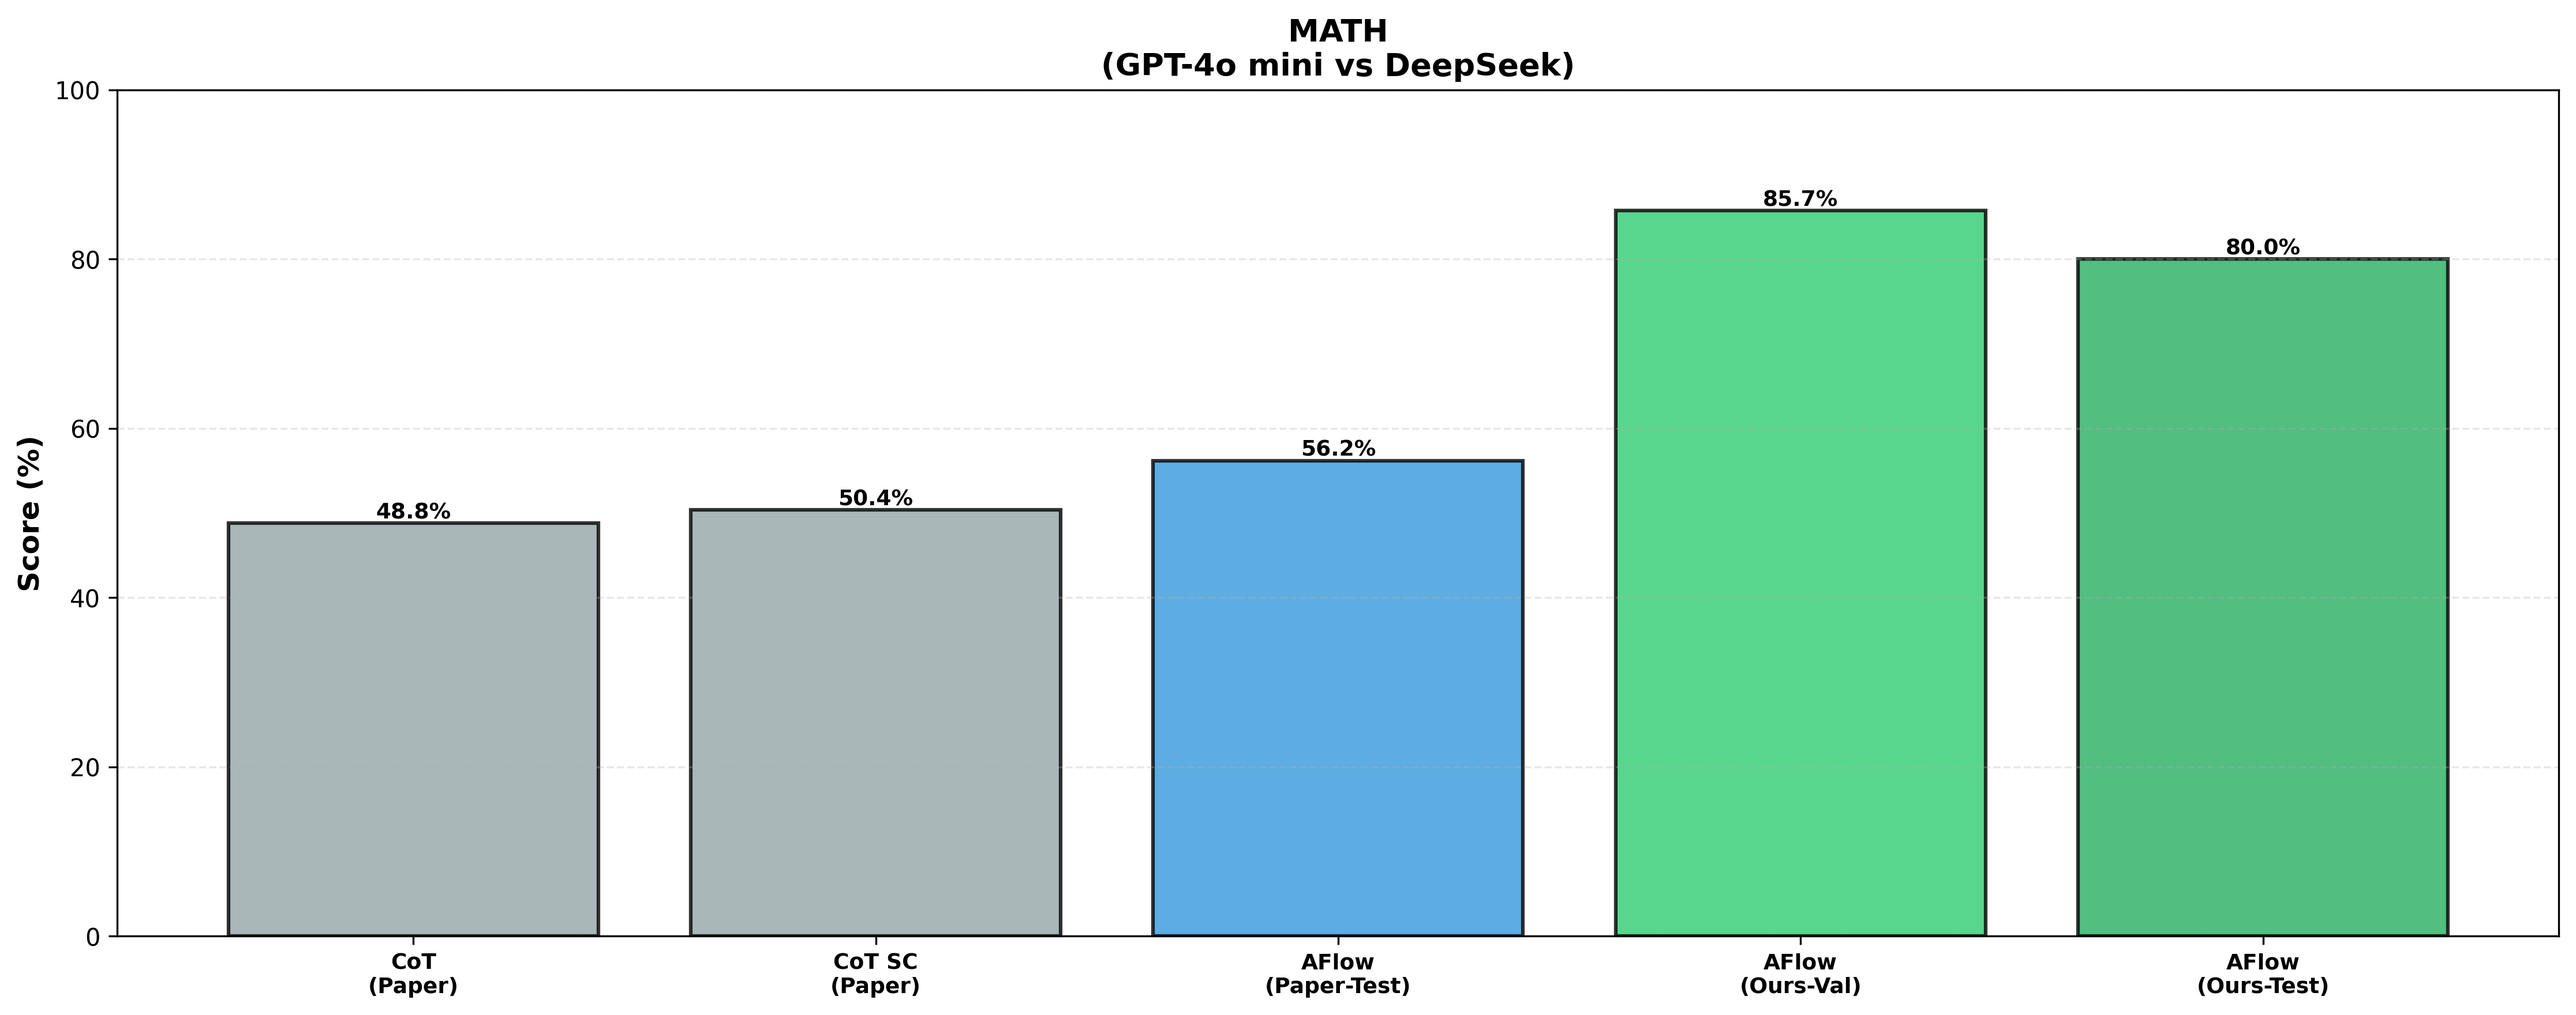
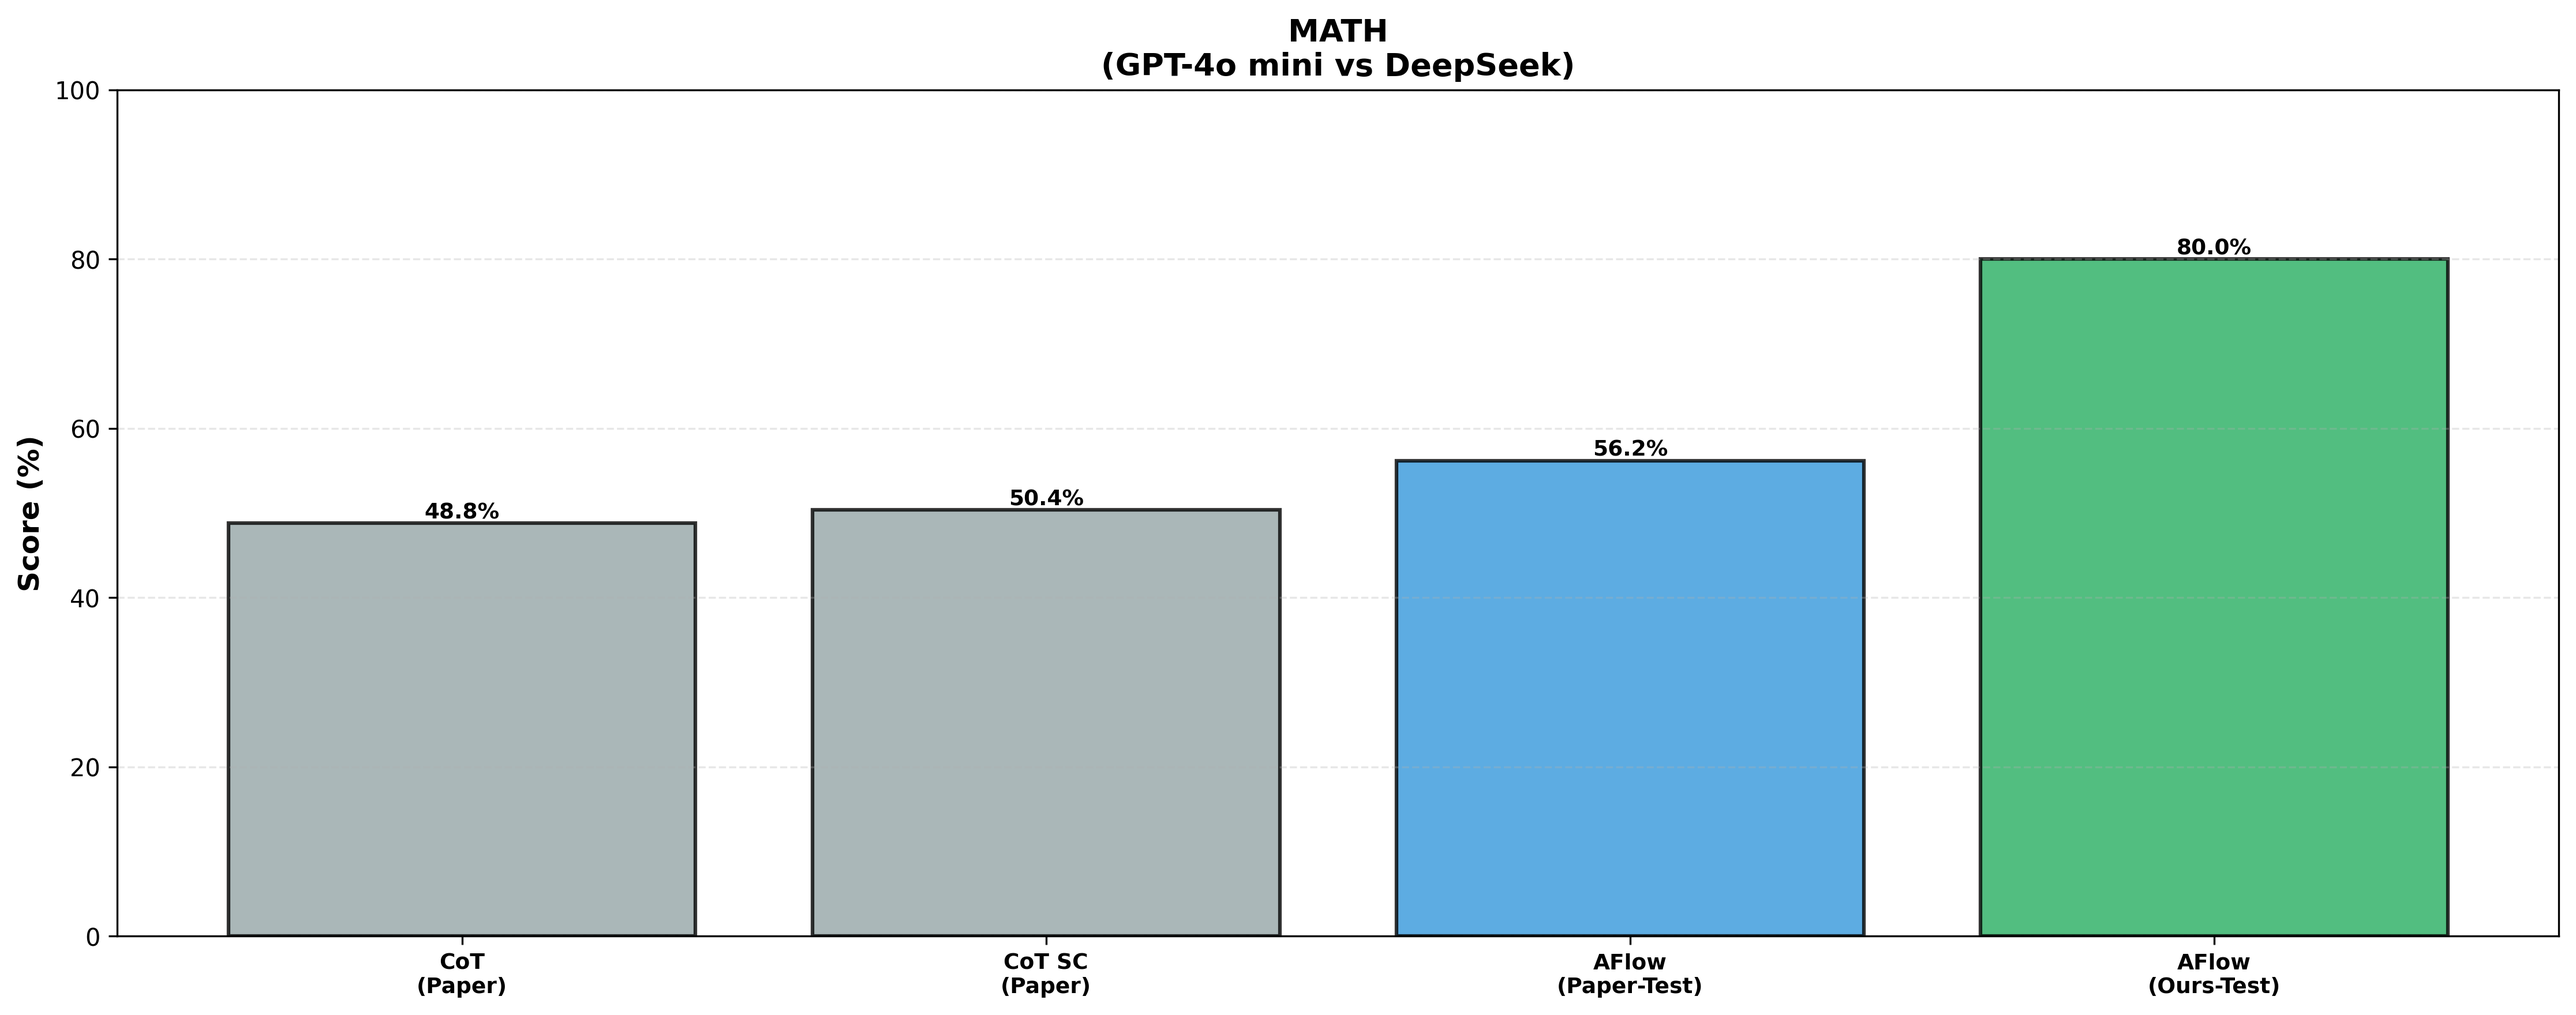
Rm validation columns in comparison_MATH.png

diff --git a/scripts/compare_with_paper.py b/scripts/compare_with_paper.py
@@ -89,10 +89,10 @@ def create_comparison_chart(
             colors.append("#3498db")
 
         # Our AFlow
-        if our_results["validation"]:
-            methods.append(f"AFlow\n(Ours-Val)")
-            scores.append(our_results["validation"])
-            colors.append("#2ecc71")
+        # if our_results["validation"]:
+        #     methods.append(f"AFlow\n(Ours-Val)")
+        #     scores.append(our_results["validation"])
+        #     colors.append("#2ecc71")
 
         if our_results["test"]:
             methods.append(f"AFlow\n(Ours-Test)")
